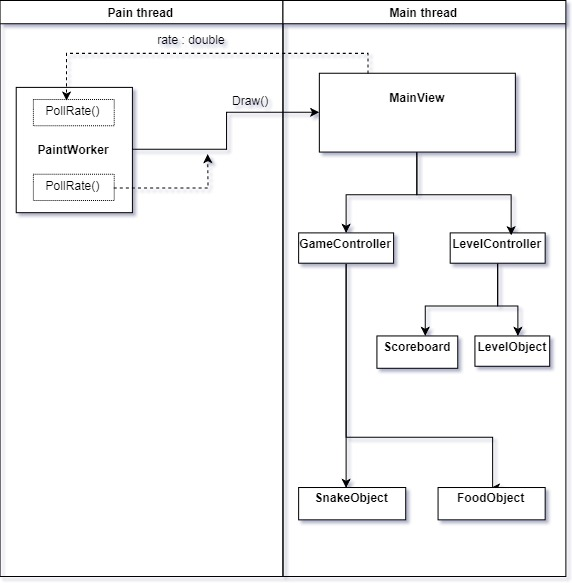
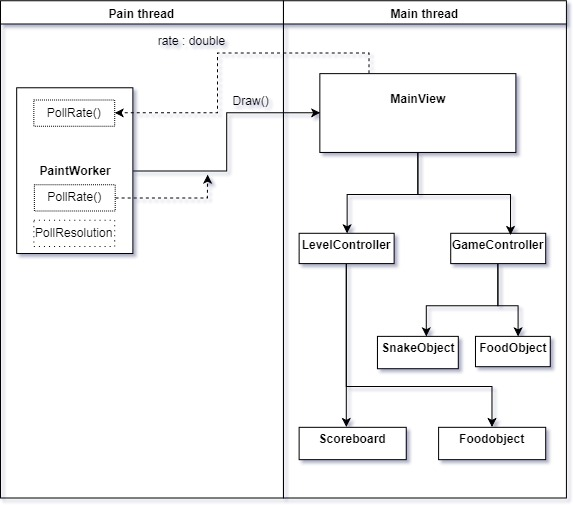
Added new section regarding the advanced version of Snake. Added some diagrams.

Changed region(s): [[0.0, 0.0, 1.0, 1.0], [0.3269, 0.3861, 0.3566, 0.4158]]

diff --git a/Rapport Snake.tex b/Rapport Snake.tex
@@ -5,6 +5,7 @@
 \usepackage[utf8]{inputenc}
 \usepackage{graphicx}
 \usepackage[danish]{babel} %Benyttes til at oversætte abstract funktionen til dansk.
+\usepackage{biblatex}
 
 % Remove "New paragraph" indentation
 
@@ -51,6 +52,8 @@ Selve kravet til  vores applikation \textit{Snake}, er foruden de givne kravspec
 
 \section{Ansvars fordeling}
 
+\section{Overordnet design og overvejelserne bag}
+
 
 
 \section{Struktur og rollefordelinger}
@@ -77,7 +80,13 @@ Den første klasse der bliver instantiereret er klassen MainView, som udgør pro
 	\label{fig:diagram2}
 \end{figure}
 
-\textit{MainView} har to opgaver som går ud på at kalde de enkelte klassers \textit{draw()} metoder og videresende brugerinput som den opfanger i dens reimplementerede metode \textit{keyPressEvent(KeyEvent event)} nedarvet fra \textit{View}. Dette vil omtales yderligere i detaljer i afsnittet \textit{"Brugen af seperate tråde, og ideén bag det"}.
+Derudover har \textit{MainView} to opgaver:
+\begin{itemize}
+	\item Håndtere optegning af objekter
+	\item Håndtere brugerinput
+\end{itemize}
+
+Den første opgave vil gennemgås i sektionen \textit{"Brugen af seperate tråde, og ideén bag det"} og før vi går til håndteringen af brugerinput redegøres der lige hurtigt for selve spillerfladens opbygning.
 
 \subsubsection{Selve spillerfladens opbygning}
 
@@ -102,12 +111,34 @@ Ideén bag brugen af en seperat tråd til automatisk optegning af grænsefladen,
 
 \subsubsection{Tegne delen}
 
-MainView er klassen der sørger for at  tegne alle objekterne på grænsefladen i den reimplementerede metode \textit{draw()} som den får fra View klassen. Denne metode foretager et kald til de to controller klasser som hver især kalder deres respektive objekters \textit{draw()} metoder, da disse objekter alle er afledte af \textit{View}. Måden denne klasse bliver kaldt på foregår ved hjælp af klassen PaintWorker som er en såkaldt subclass af \textit{java.lang.Thread}\footnote{\textit{java.lang.Thread} er en klasse hvis metode \textit{run()} eksekverer kode i en separat tråd.}  og reimplementerer dens metode \textit{run()}. Alt kode i denne metode afvikles asynkront i en seperat tråd og dens formål er at opdaterer grænsefladen ved at foretage et kald til draw() metoden i MainView et bestemt antal gange i sekundet. Dette antal opdateringer kan så sættes til en bestemt værdi ved metoden \textit{setPollRate()}. Selve strukturen over de forskellige metodekald kan betragtes i følgende illustration:
+MainView er klassen der sørger for at  tegne alle objekterne på grænsefladen i den reimplementerede metode \textit{draw()} som den får fra View klassen. Denne metode foretager et kald til de to controller klasser som hver især kalder deres respektive objekters \textit{draw()} metoder, da disse objekter alle er afledte af \textit{View}. Måden denne klasse bliver kaldt på foregår ved hjælp af klassen PaintWorker som er en subclass\footnote{Et andet ord som betegner en udvidelse af en eksisterende klasse.} af \textit{java.lang.Thread}\footnote{\textit{java.lang.Thread} er en klasse hvis metode \textit{run()} eksekverer kode i en seperat tråd.}  og reimplementerer dens metode \textit{run()}. Alt kode i denne metode afvikles asynkront i en seperat tråd og dens formål er at opdaterer grænsefladen ved at foretage et kald til draw() metoden i MainView et bestemt antal gange i sekundet. Dette antal opdateringer kan så sættes til en bestemt værdi ved metoden \textit{setPollRate()}. Selve strukturen over de forskellige metodekald kan betragtes i følgende illustration:
 
 \begin{figure}[h!]
 	\centering
 	\includegraphics[width=250px]{Draw_sequence.jpg}
 	\label{fig:diagram2}
 \end{figure}
+
+Antallet af opdateringer bestemmes ud fra et kald til \textit{Thread.sleep(long ms)} hvor sætter antallet af opdateringer per sekund. Nærmere beskrevet ud fra følgende:
+
+\begin{center}
+	$ ms = \frac{1000}{Pollrate()}  $
+\end{center}
+
+\pagebreak
+En anden illustration kan betragtes her hvor klasserne er inddelt i de forskellige tråde:
+
+\begin{figure}[h!]
+	\centering
+	\includegraphics[width=250px]{Thread_diagram.jpg}
+	\label{fig:thread}
+\end{figure}
+
+I vores avancerede udgave af \textit{Snake} animeres slangens bevægelser og brugerinput bestemmer nu slangens orientering. Denne animation foregår ved hjælp af klassen \textit{ObjectAnimator} men dette vil omtales i et seperat afsnit vedrørende \textit{AdvancedSnake}.
+
+\section{Den avancerede variant af \textit{Snake}}
+I den avancerede udgave af vores computerspil bliver der som før beskrevet indført animationer. Dette, samt mere, medfører lidt mindre strukturelle ændringer med indførelsen af nye over-klasser. 
+
+
 
 \end{document}          
